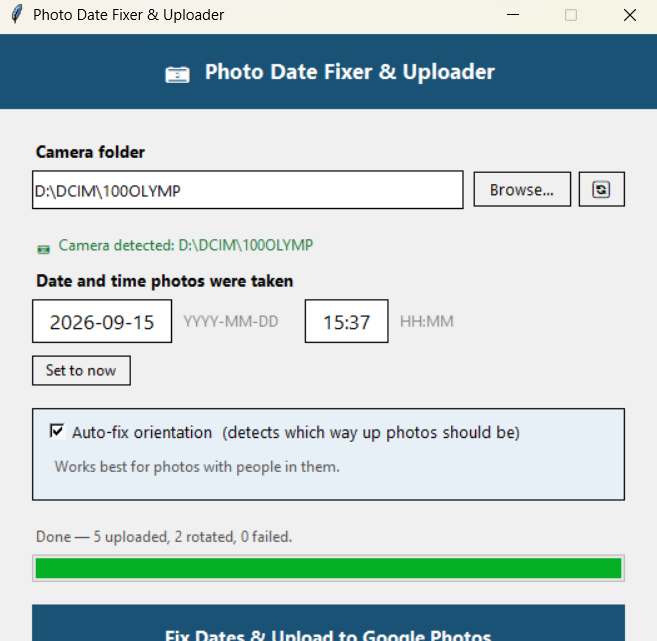
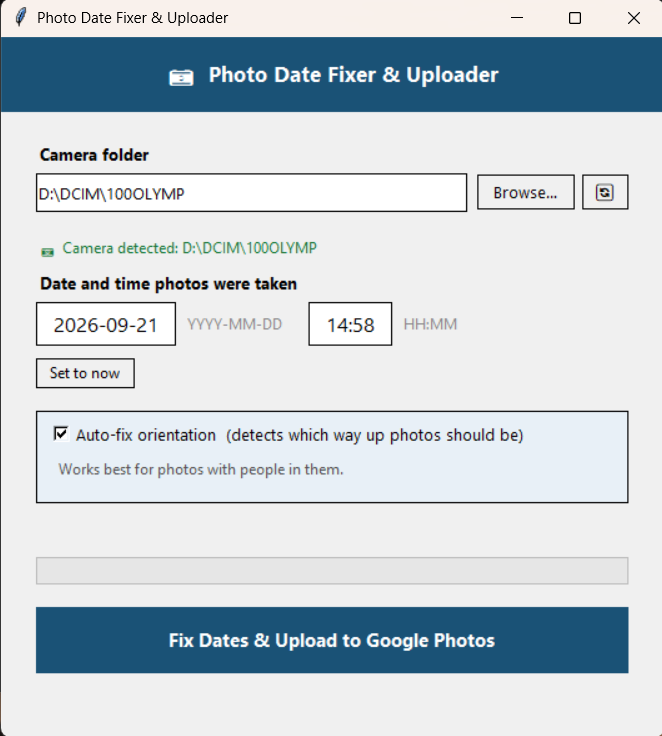
Update photo uploader app screenshot and bust image cache

diff --git a/projects.js b/projects.js
@@ -341,7 +341,7 @@ Strategy:
     tags: ["ai", "photography", "automation"],
     year: 2026,
     imageUrl: "public/assets/olympus-cover.JPG",
-    caseImage: "public/assets/photo-uploader-app.png",
+    caseImage: "public/assets/photo-uploader-app.png?v=2",
     link: null,
     caseLabel: "The Story",
     kpiLabel: "The Payoff",
